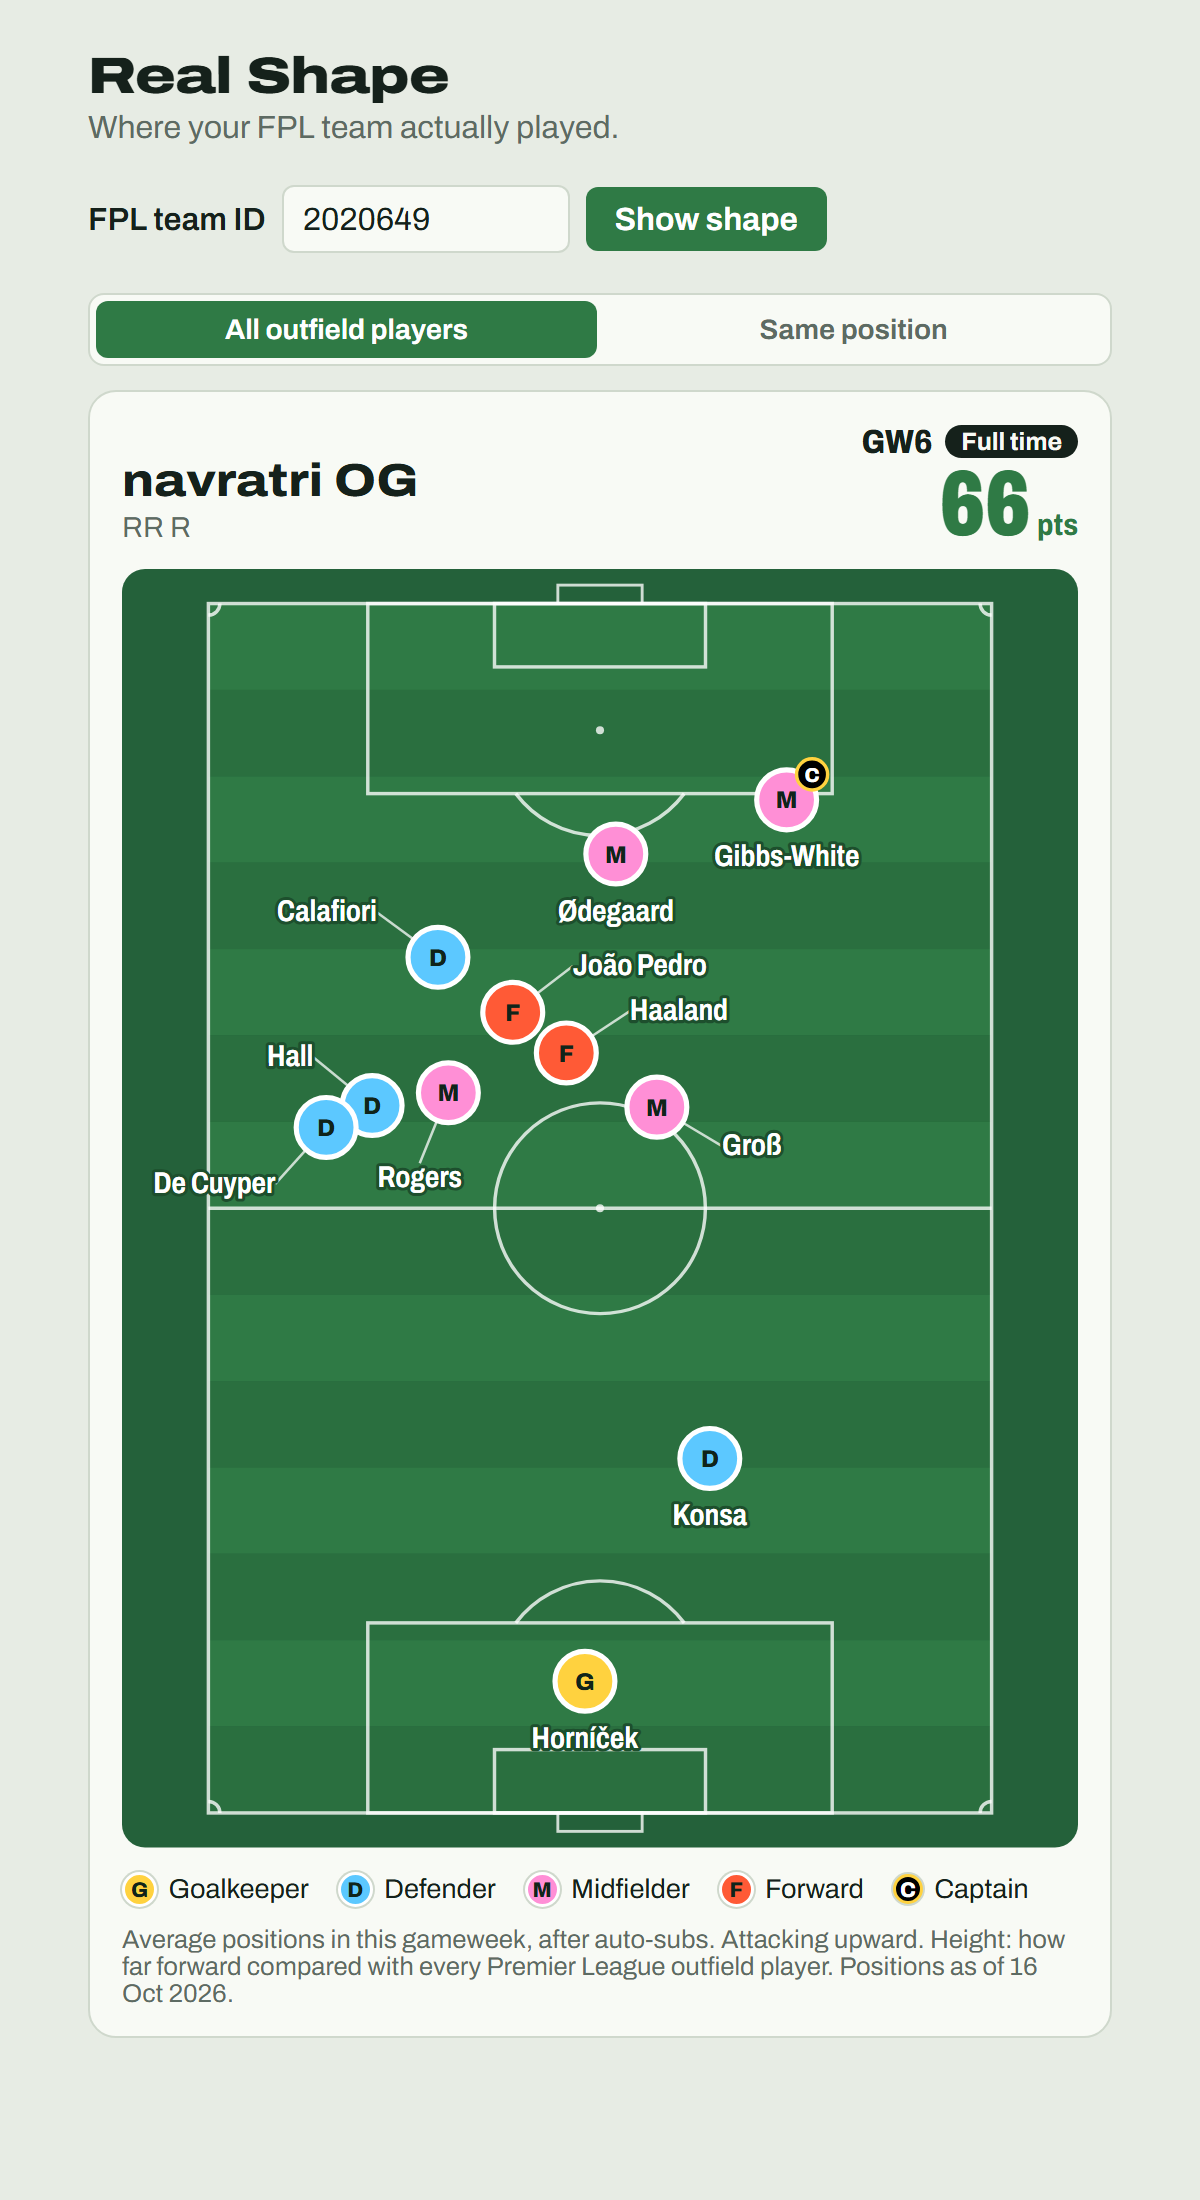
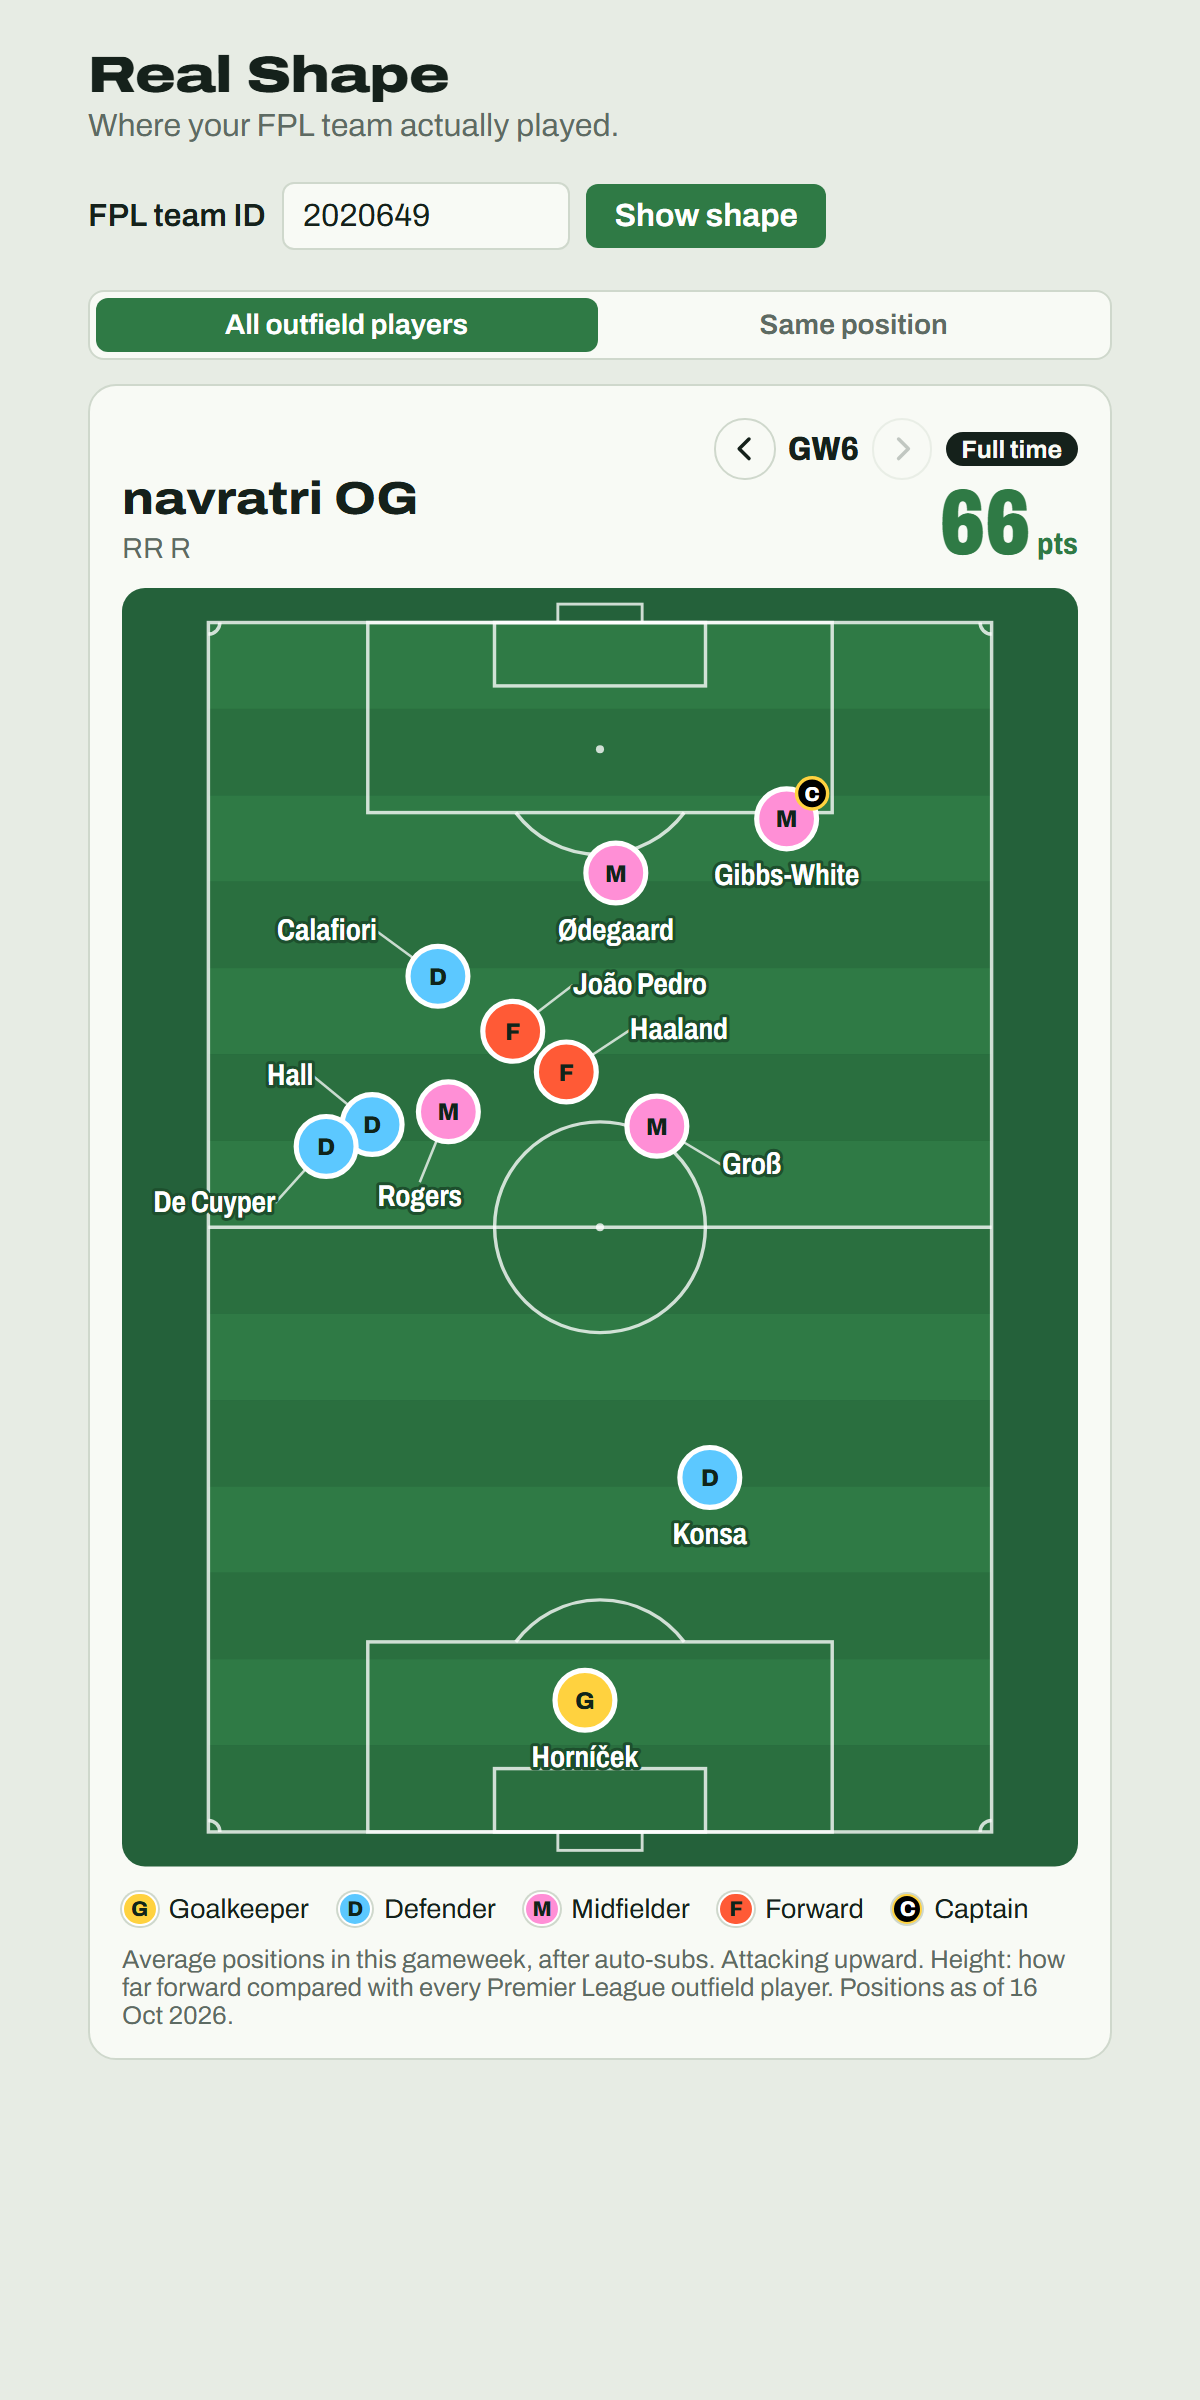
Move gameweek navigation to arrows beside the GW label, add arrow keys (task 13 feedback)

Changed region(s): [[0.0617, 0.0, 0.925, 0.9273]]

diff --git a/frontend/src/App.tsx b/frontend/src/App.tsx
@@ -1,6 +1,7 @@
 // Team ID → the latest (or ?gw=) gameweek graphic. Team and gameweek are kept in
-// the URL: ?team=2020649&gw=6. Previous / next step through the team's
-// gameweeks (the plot API says which exist).
+// the URL: ?team=2020649&gw=6. Arrows beside the gameweek in the card header
+// (and the arrow keys) step through the team's gameweeks (the plot API says
+// which exist).
 
 import { type FormEvent, useEffect, useState } from 'react'
 
@@ -71,6 +72,19 @@ function App() {
   const loading = key !== null && current === null
   const failed = current !== null && 'error' in current
   const plot = fixture ?? (shown && shown.team_id === teamId && !failed ? shown : null)
+  const prevGw = plot && !fixture && !loading ? plot.prev_gw : null
+  const nextGw = plot && !fixture && !loading ? plot.next_gw : null
+
+  // Left / right arrow keys step gameweeks too (not while typing a team ID).
+  useEffect(() => {
+    function onKey(event: KeyboardEvent) {
+      if (event.target instanceof HTMLInputElement || event.altKey || event.ctrlKey || event.metaKey) return
+      if (event.key === 'ArrowLeft' && prevGw !== null) setGw(prevGw)
+      if (event.key === 'ArrowRight' && nextGw !== null) setGw(nextGw)
+    }
+    window.addEventListener('keydown', onKey)
+    return () => window.removeEventListener('keydown', onKey)
+  }, [prevGw, nextGw])
 
   useEffect(() => {
     if (import.meta.env.DEV && initial.fixture === 'edges') {
@@ -131,25 +145,6 @@ function App() {
       </form>
 
       {inputError && <p className="error">{inputError}</p>}
-      {plot && !fixture && (
-        <nav className="gw-nav" aria-label="Gameweek">
-          <button
-            type="button"
-            disabled={plot.prev_gw === null || loading}
-            onClick={() => setGw(plot.prev_gw)}
-          >
-            {plot.prev_gw === null ? 'Previous' : `GW${plot.prev_gw}`}
-          </button>
-          <span className="gw-nav-current">Gameweek {loading && gw !== null ? gw : plot.gw}</span>
-          <button
-            type="button"
-            disabled={plot.next_gw === null || loading}
-            onClick={() => setGw(plot.next_gw)}
-          >
-            {plot.next_gw === null ? 'Next' : `GW${plot.next_gw}`}
-          </button>
-        </nav>
-      )}
       {plot && (
         <div className="view-switch" role="group" aria-label="Depth view">
           {DEPTH_VIEWS.map((v) => (
@@ -172,7 +167,11 @@ function App() {
       {!plot && loading && <p className="muted">Loading…</p>}
       {plot && (
         <div className={loading && !fixture ? 'card-slot is-loading' : 'card-slot'} aria-busy={loading && !fixture}>
-          <PitchCard plot={plot} depth={depth} />
+          <PitchCard
+            plot={plot}
+            depth={depth}
+            nav={fixture ? undefined : { prev: prevGw, next: nextGw, go: setGw }}
+          />
         </div>
       )}
     </main>

diff --git a/frontend/src/PitchCard.tsx b/frontend/src/PitchCard.tsx
@@ -27,7 +27,29 @@ function formatDate(iso: string) {
   return new Date(`${iso}Z`).toLocaleDateString('en-GB', { day: 'numeric', month: 'short', year: 'numeric' })
 }
 
-export default function PitchCard({ plot, depth = 'all' }: { plot: Plot; depth?: DepthMode }) {
+// Gameweeks the arrows go to (null = disabled). Left out for a static card.
+export type GwNav = { prev: number | null; next: number | null; go: (gw: number) => void }
+
+function GwArrow({ direction, nav }: { direction: 'prev' | 'next'; nav: GwNav }) {
+  const gw = direction === 'prev' ? nav.prev : nav.next
+  const label = direction === 'prev' ? 'Previous gameweek' : 'Next gameweek'
+  return (
+    <button
+      type="button"
+      className="gw-arrow"
+      disabled={gw === null}
+      onClick={() => gw !== null && nav.go(gw)}
+      aria-label={gw === null ? label : `${label} (GW${gw})`}
+      title={gw === null ? label : `GW${gw}`}
+    >
+      <svg viewBox="0 0 24 24" aria-hidden="true">
+        <path d={direction === 'prev' ? 'M15 5 8 12l7 7' : 'M9 5l7 7-7 7'} />
+      </svg>
+    </button>
+  )
+}
+
+export default function PitchCard({ plot, depth = 'all', nav }: { plot: Plot; depth?: DepthMode; nav?: GwNav }) {
   const state = STATE_TEXT[plot.state]
   const hasGhosts = plot.dots.some((d) => d.is_ghost)
   const hasLinks = plot.dots.some((d) => d.link_group !== null)
@@ -40,7 +62,9 @@ export default function PitchCard({ plot, depth = 'all' }: { plot: Plot; depth?:
         </div>
         <div className="card-gw">
           <div className="gw-line">
+            {nav && <GwArrow direction="prev" nav={nav} />}
             <span className="gw-label">GW{plot.gw}</span>
+            {nav && <GwArrow direction="next" nav={nav} />}
             <span className={`state state-${plot.state}`}>{state.badge}</span>
           </div>
           <p className="score">

diff --git a/frontend/src/index.css b/frontend/src/index.css
@@ -113,36 +113,38 @@ input:focus-visible {
   color: var(--muted);
 }
 
-.gw-nav {
+.gw-arrow {
   display: grid;
-  grid-template-columns: 1fr auto 1fr;
-  align-items: center;
-  gap: 0.5rem;
-  margin-bottom: 0.6rem;
-}
-
-.gw-nav button {
+  place-items: center;
+  width: 1.9rem;
+  height: 1.9rem;
+  padding: 0;
+  border-radius: 50%;
+  border: 1px solid var(--card-line);
   background: var(--card);
   color: var(--ink);
-  border: 1px solid var(--card-line);
 }
 
-.gw-nav button:first-child {
-  justify-self: start;
+.gw-arrow svg {
+  width: 1.05rem;
+  height: 1.05rem;
+  fill: none;
+  stroke: currentColor;
+  stroke-width: 2.5;
+  stroke-linecap: round;
+  stroke-linejoin: round;
 }
 
-.gw-nav button:last-child {
-  justify-self: end;
+.gw-arrow:hover:not(:disabled) {
+  background: var(--grass);
+  border-color: var(--grass);
+  color: #fff;
 }
 
-.gw-nav button:disabled {
+.gw-arrow:disabled {
   color: var(--muted);
-  opacity: 0.5;
-}
-
-.gw-nav-current {
-  font-weight: 750;
-  font-stretch: 90%;
+  opacity: 0.35;
+  cursor: default;
 }
 
 .card-slot {
@@ -209,7 +211,7 @@ input:focus-visible {
   line-height: 1.1;
   font-weight: 800;
   font-stretch: 112%;
-  overflow-wrap: anywhere;
+  overflow-wrap: break-word;
 }
 
 .card-team p {
@@ -223,6 +225,27 @@ input:focus-visible {
   flex-direction: column;
   align-items: flex-end;
   flex-shrink: 0;
+}
+
+/* Phones: team name on its own line, then the gameweek arrows and the score. */
+@media (max-width: 30rem) {
+  .card-head {
+    flex-direction: column;
+    align-items: stretch;
+    gap: 0.6rem;
+  }
+
+  .card-gw {
+    flex-direction: row;
+    flex-wrap: wrap;
+    justify-content: space-between;
+    align-items: center;
+    gap: 0.4rem;
+  }
+
+  .card-gw .score {
+    margin: 0;
+  }
 }
 
 .gw-line {

diff --git a/README.md b/README.md
@@ -35,7 +35,7 @@ FPL shows a team as a tidy formation, but managers pick attacking "defenders" an
 
 - **Task 12 — Gameweek plot API endpoint** (done 2026-10-17): `GET /api/team/{team_id}/plot/{gw}` and `/plot/latest` return the graphic's JSON: team name, gameweek, `state` (preview / locked), `prev_gw` / `next_gw`, `data_as_of` (latest finished sync) and the dots (name, web name, role, club, slot, x / y rounded to 2 decimals, captain, ghost and reason, `from_gw`, `link_group`, `replaces`). `backend/app/logic/plot.py` joins task 11's dots with player details. `prev_gw` stops at the team's first gameweek, `next_gw` at the newest passed deadline. `latest` falls back one gameweek while FPL is not serving fresh picks yet. The web app never loads the Sofascore adapter (checked by a test and in the server log). Owner's team GW1-6 checked live, all locked, 11 dots, no ghosts. Docs and samples: `docs/api.md`. 215 tests pass.
 
-- **Task 13 — Pitch rendering (static, one locked GW)** (awaiting approval, 2026-10-17): React `Pitch` component draws an SVG pitch to scale (68 x 105 m, mown stripes, full markings) with the team attacking upward, from `GET /api/team/{id}/plot/{gw}`. Dots colored by FPL role with the role letter inside, a legend, short-name labels placed to avoid collisions, a black "C" captain badge, a "from GWx" / "auto-sub" second line, dashed lines joining double-gameweek dots, and greyed ghosts on the sideline. Players in the same spot are nudged apart by at most about 2 m. Crowded dots get callout labels on leader lines so each name clearly belongs to one dot. `PitchCard` adds the team name, GW number, the gameweek score (and any transfer hit, now in the plot API as `points` / `transfers_cost`), a Full time / Preview badge and the data date. Average positions bunch up in midfield, so the dot's height is a league rank, with two views behind buttons: "All outfield players" (default, percentile of depth among every outfield player-match) and "Same position" (only against the same FPL role); computed in the backend (`app/logic/depth.py`, new `depth_pct_all` / `depth_pct_role` on each dot). Previous / next gameweek buttons (pulled forward from task 14) step through every gameweek the team has played. Self-hosted Archivo font (ready for image export), fits a 360 px phone. The interim list view is removed. Dev-only sample with every edge case at `?fixture=edges`. Screenshots: `docs/screenshots/pitch-v1.png` (+ `-same-position`, `-phone`, `-edge-cases`).
+- **Task 13 — Pitch rendering (static, one locked GW)** (awaiting approval, 2026-10-17): React `Pitch` component draws an SVG pitch to scale (68 x 105 m, mown stripes, full markings) with the team attacking upward, from `GET /api/team/{id}/plot/{gw}`. Dots colored by FPL role with the role letter inside, a legend, short-name labels placed to avoid collisions, a black "C" captain badge, a "from GWx" / "auto-sub" second line, dashed lines joining double-gameweek dots, and greyed ghosts on the sideline. Players in the same spot are nudged apart by at most about 2 m. Crowded dots get callout labels on leader lines so each name clearly belongs to one dot. `PitchCard` adds the team name, GW number, the gameweek score (and any transfer hit, now in the plot API as `points` / `transfers_cost`), a Full time / Preview badge and the data date. Average positions bunch up in midfield, so the dot's height is a league rank, with two views behind buttons: "All outfield players" (default, percentile of depth among every outfield player-match) and "Same position" (only against the same FPL role); computed in the backend (`app/logic/depth.py`, new `depth_pct_all` / `depth_pct_role` on each dot). Arrows either side of the GW label (and the arrow keys; pulled forward from task 14) step through every gameweek the team has played. Self-hosted Archivo font (ready for image export), fits a 360 px phone. The interim list view is removed. Dev-only sample with every edge case at `?fixture=edges`. Screenshots: `docs/screenshots/pitch-v1.png` (+ `-same-position`, `-phone`, `-edge-cases`).
 
 ## Next task
 Waiting for owner approval on task 13 (`tasks/13-pitch-rendering.md`). Then **Task 14 — Gameweek mode UI + navigation** → `tasks/14-gameweek-mode-ui.md`

diff --git a/tasks/13-pitch-rendering.md b/tasks/13-pitch-rendering.md
@@ -31,6 +31,7 @@ A good-looking pitch graphic for one locked gameweek, drawn from the plot API.
 - **Iteration 3 (owner feedback, 2026-10-17): "everyone is in midfield".** Not a bug: average positions compress toward the middle. Over all 1,144 outfield player-matches of 60+ min (GW1-6), depth runs 23-80 with DEF median 41, MID 55, FWD 62; keepers 9-14 every match, so the frame is right. Haaland's GW6 (53.6) is his deepest of the season. Three depth views are on the page as buttons above the card (also `?depth=true|stretch|league`), **default True scale**: (A) true scale with dashed "typical DEF / MID / FWD" lines at the league medians; (B) one fixed piecewise stretch, keeper zone unchanged, 30-75 spread over 24-90; (C) outfield depth as a league percentile, drawn over 20-90. Side-by-side comparisons: `docs/screenshots/depth-options/gw6-compare.png`, `gw2-compare.png`. The league medians and percentiles are hard-coded in `pitchLayout.ts` from the GW1-6 data; if a view other than true scale is kept, they should come from the API and refresh with each sync. Owner to decide which views to keep.
 - **Iteration 4 (owner decision, 2026-10-17):** true scale and stretched dropped (accurate but not visually good). Two views stay, as buttons above the card (`?depth=role` for the second): **All outfield players** (default): height = percentile of the dot's depth among every outfield player-match; **Same position**: percentile among player-matches of the same FPL role only (Haaland against forwards). Percentiles 0-100 are drawn at 20-90% of the pitch length; keepers keep their real spot; left-right is always real. The ranking is now computed in the backend from the database (`app/logic/depth.py`, pool = player-matches of 60+ min, refreshed with every sync) and sent as `depth_pct_all` / `depth_pct_role` on each dot; hard-coded quantiles removed from the frontend. GW6 check: Calafiori 97.6% of defenders, Haaland 9.5% of forwards (his deepest game). 219 backend tests pass. Screenshots: `pitch-v1.png` (all outfield players), `pitch-v1-same-position.png`.
 - **Iteration 5 (owner request, 2026-10-17):** previous / next gameweek buttons above the card (pulled forward from task 14), driven by the plot API's `prev_gw` / `next_gw`; the URL follows (`&gw=`), the chosen depth view is kept, and the current card stays on screen dimmed while the next one loads. Verified by clicking through in headless Chrome: GW6 (latest, Next disabled) back to GW1 (Previous disabled) and forward again, 11 dots and no error at every step. Captain badges are now drawn above all dots (in GW1 João Pedro's dot covered Bruno's badge).
+- **Iteration 6 (owner request, 2026-10-17):** the gameweek buttons became round arrows either side of the GW label in the card header ("< GW6 >"), disabled when there is no earlier / later gameweek; the left / right arrow keys do the same (not while typing in the team ID box). On phones (< 30rem) the header stacks: team name on its own line, then arrows + badge + score, so nothing scrolls sideways (checked at 360 px). The arrows are inside the card, so the image export (task 15) must leave them out. Re-verified by clicking: GW6 -> GW1 -> GW2, arrow keys GW2 -> GW3 -> GW2, 11 dots and no error each time.
 - **Overlapping players:** dots closer than 1.7 dot radii are pushed apart, at most 0.9 radius (about 2.3 m, under 2.5% of the pitch), so two players in the same spot both show (GW6: Hall and De Cuyper are 1.4 units apart). Labels try 8 spots around each dot and take the first with no collision, else the least overlap.
 - **Screenshots:** `docs/screenshots/pitch-v1.png` (owner's team 2020649, GW6 locked, 600 px wide), `pitch-v1-phone.png` (same at 360 px), `pitch-v1-edge-cases.png`. The owner's team has no ghost, double gameweek or "from GW" label yet, so the edge-case shot uses a dev-only sample: `http://localhost:5173/?fixture=edges` (`src/fixtures/edgeCases.ts`, not in the production build).
 - Checked: `npm run build` and `npm run lint` clean; GW1-6 render; headless Chrome screenshots at 600 px and 360 px.

diff --git a/tasks/14-gameweek-mode-ui.md b/tasks/14-gameweek-mode-ui.md
@@ -22,4 +22,4 @@ The full Gameweek mode flow, minus image export (task 15).
 - [ ] Update the root `README.md`: add this task under **Tasks completed** with a short summary of the work done, and set **Next task** to the next task and its file path (for a 🛑 task: "waiting for owner approval on task NN").
 
 ## Notes
-- 2026-10-17: prev / next navigation already built during task 13 (owner request): buttons above the card, disabled at the edges, URL `?team=&gw=`, card dimmed while loading; checked GW6 → GW1 → GW2 for team 2020649. Still to do here: remember the last team ID (localStorage), "positions data as of" placement, loading / error states review, preview-GW checks.
+- 2026-10-17: prev / next navigation already built during task 13 (owner request): round arrows either side of the GW label in the card header plus the left / right arrow keys, disabled at the edges, URL `?team=&gw=`, card dimmed while loading; checked GW6 → GW1 → GW2 for team 2020649. Still to do here: remember the last team ID (localStorage), "positions data as of" placement, loading / error states review, preview-GW checks.
